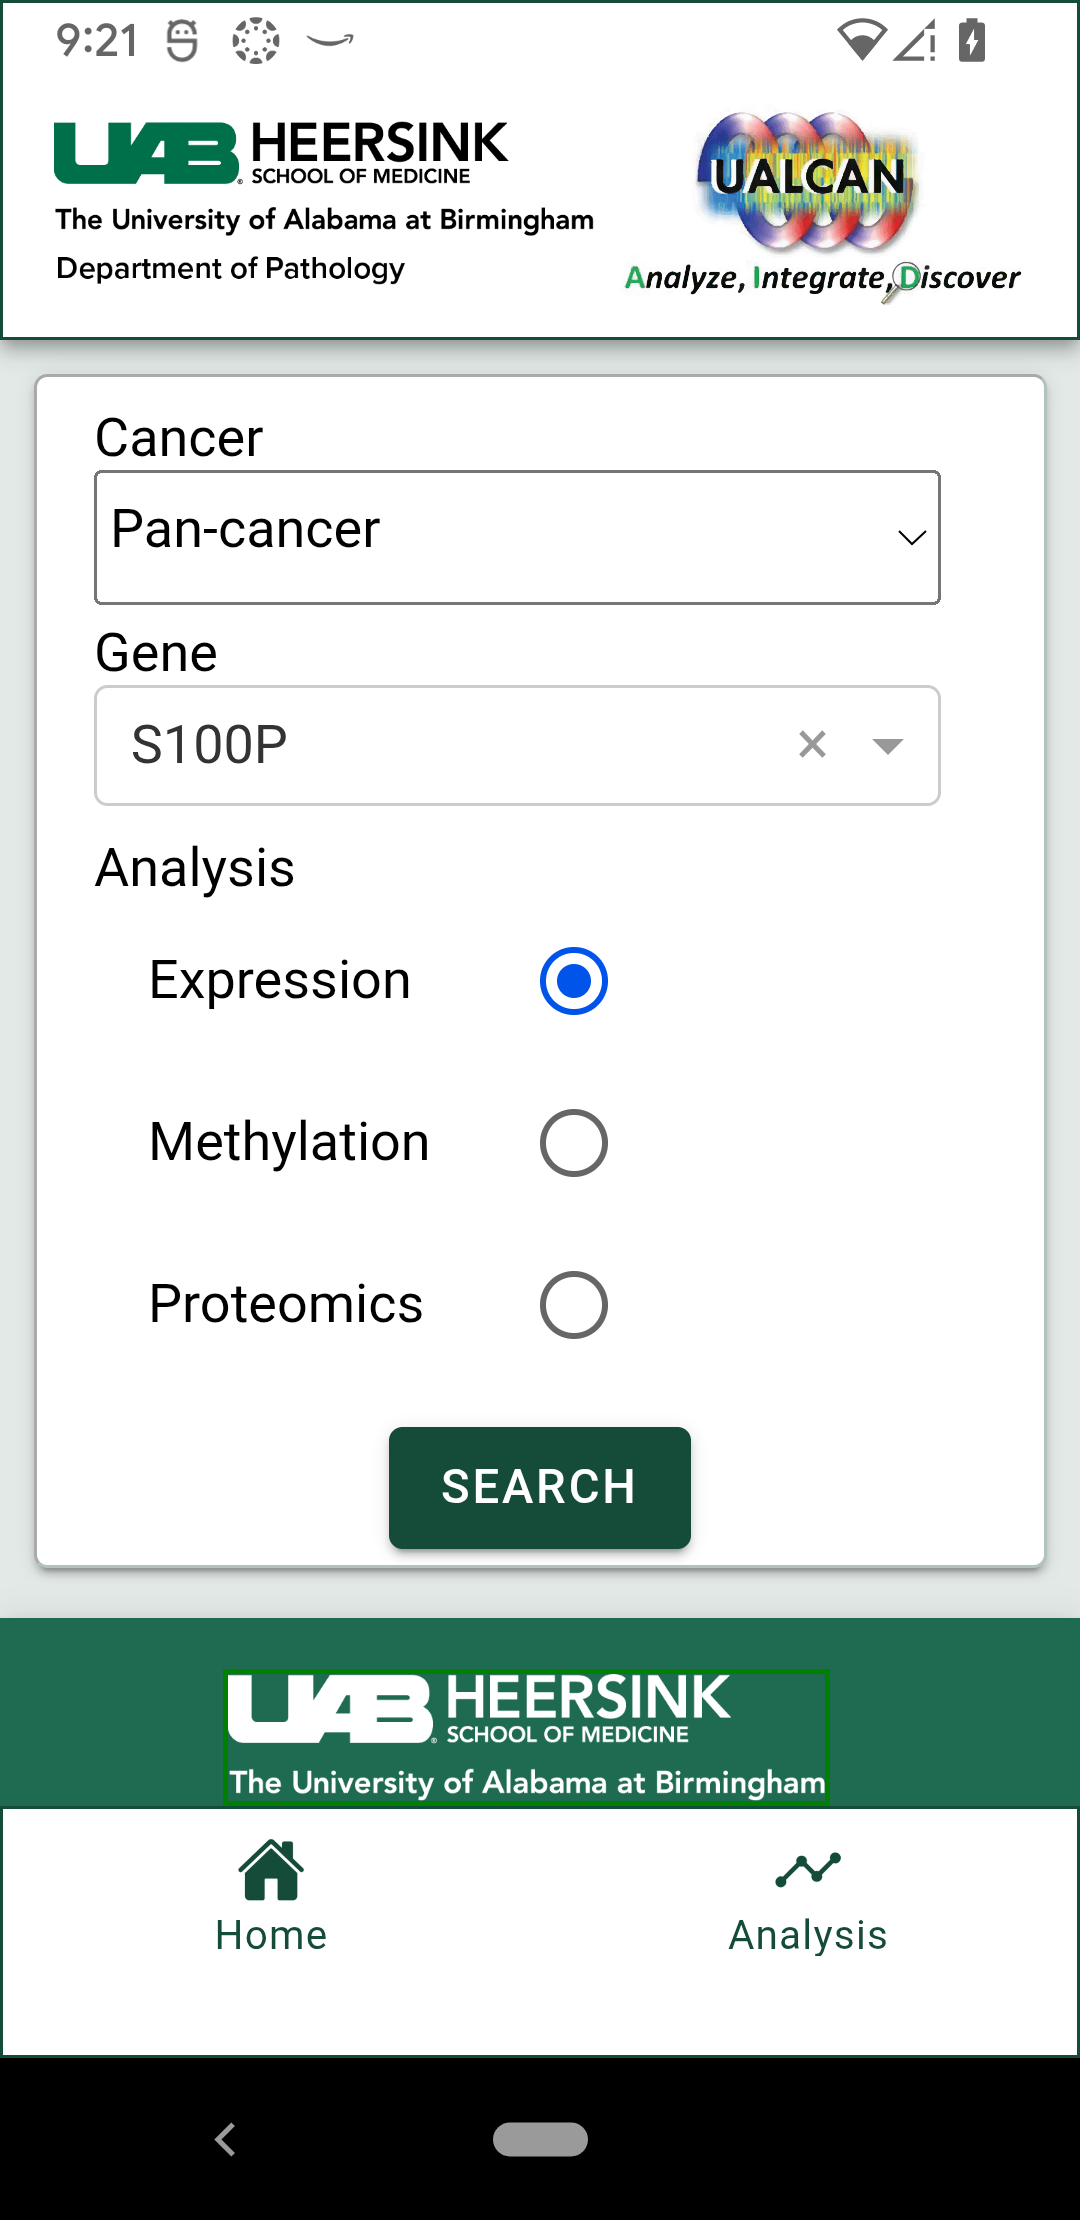
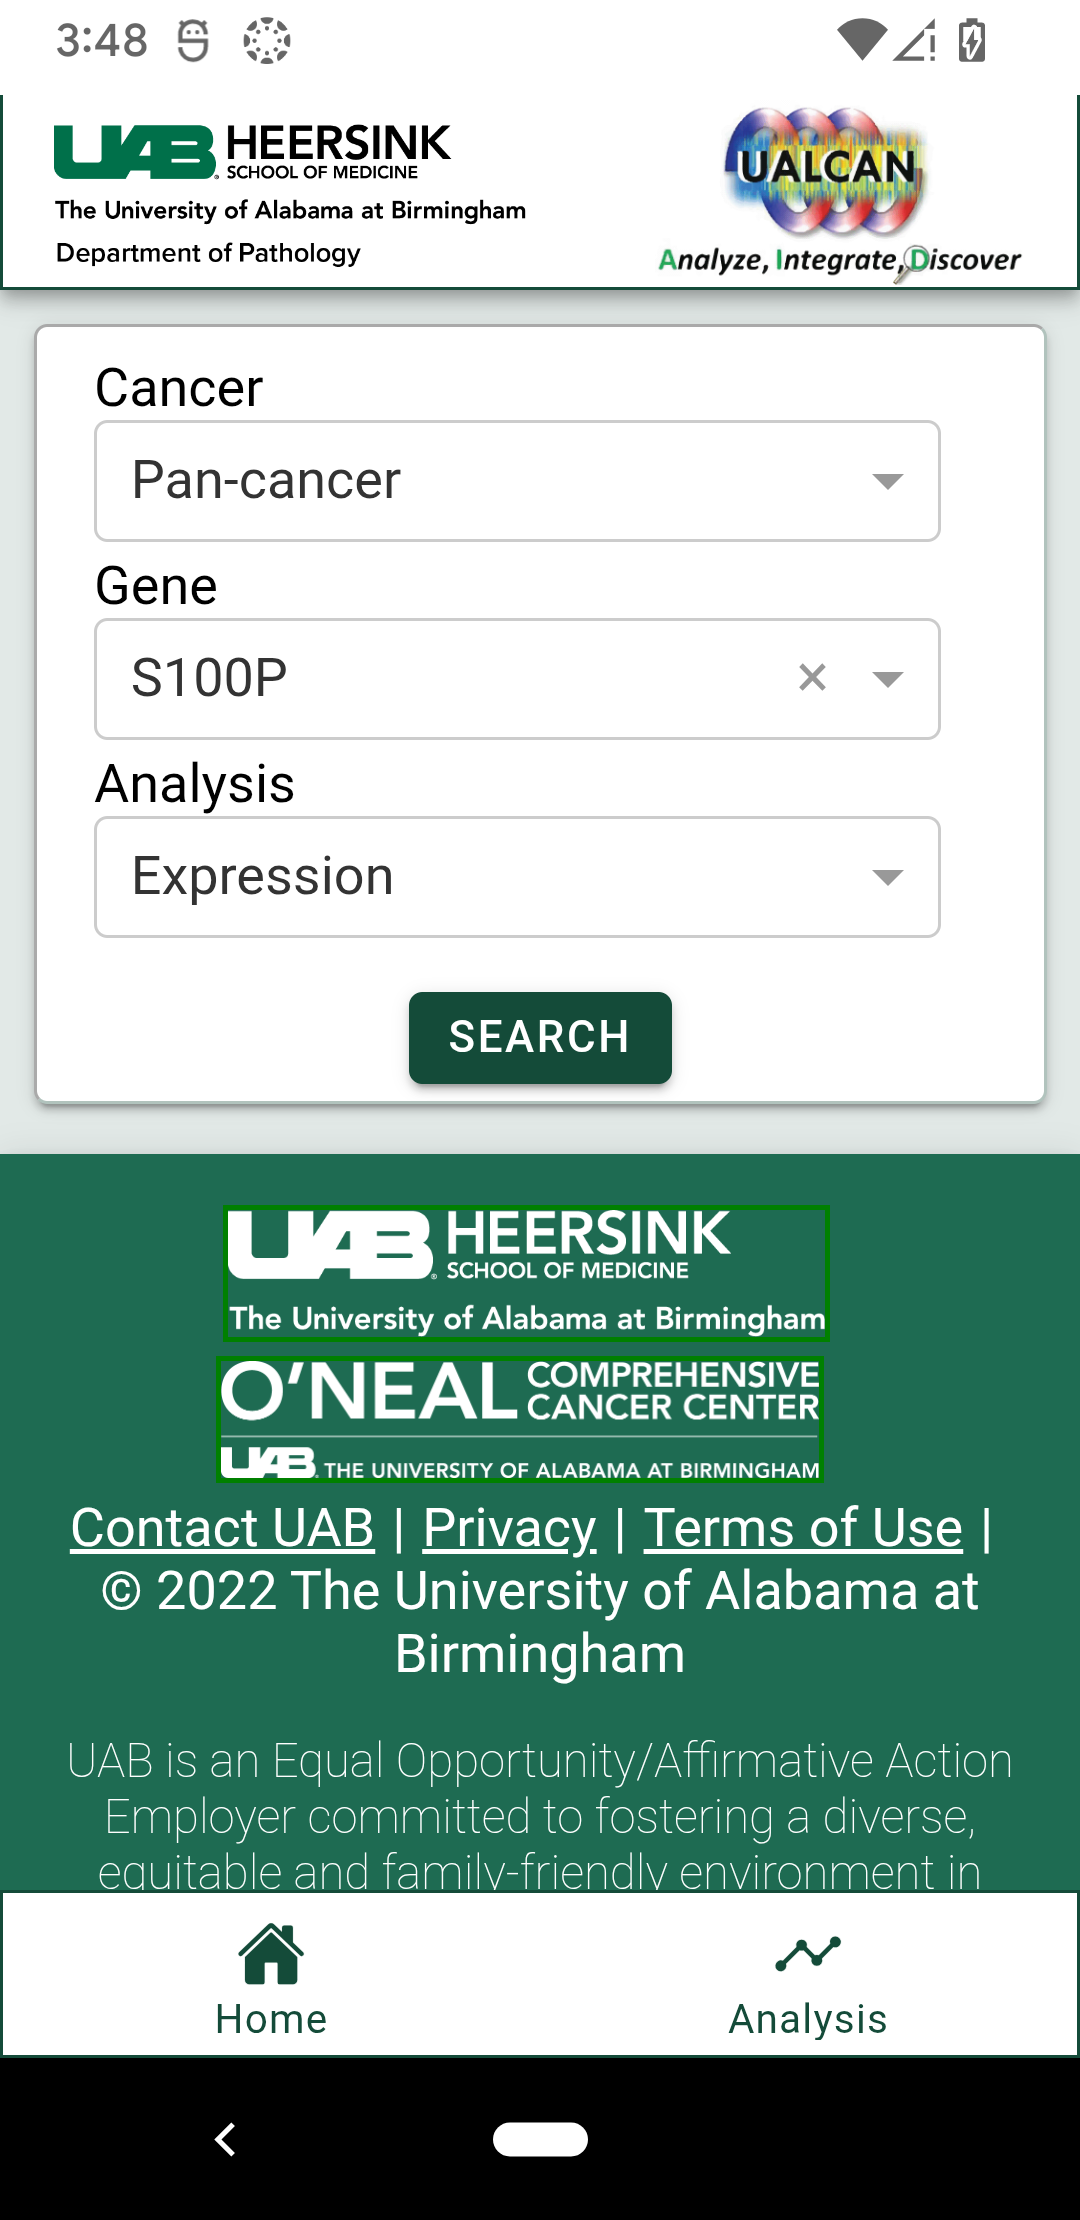
Fix statusbar issues on android and updateed screen shots

diff --git a/src/app/app.component.ts b/src/app/app.component.ts
@@ -19,8 +19,6 @@ export class AppComponent {
 
   initializeApp() {
     this.platform.ready().then(() => {
-      this.statusBar.styleDefault();
-      this.statusBar.backgroundColorByHexString("#00000000");
     });
   }
 }

diff --git a/README.md b/README.md
@@ -25,7 +25,9 @@ native mobile applications.
 <img src="docs/screenshots/analysis.png" width="30%" />
 
 ### Data Visualization
-<img src="docs/screenshots/plot.png" width="70%" />
+<img src="docs/screenshots/plot1.png" width="30%" />
+
+<img src="docs/screenshots/plot2.png" width="70%" />
 
 ### PDF Export
 <img src="docs/screenshots/export.png" width="30%" />
